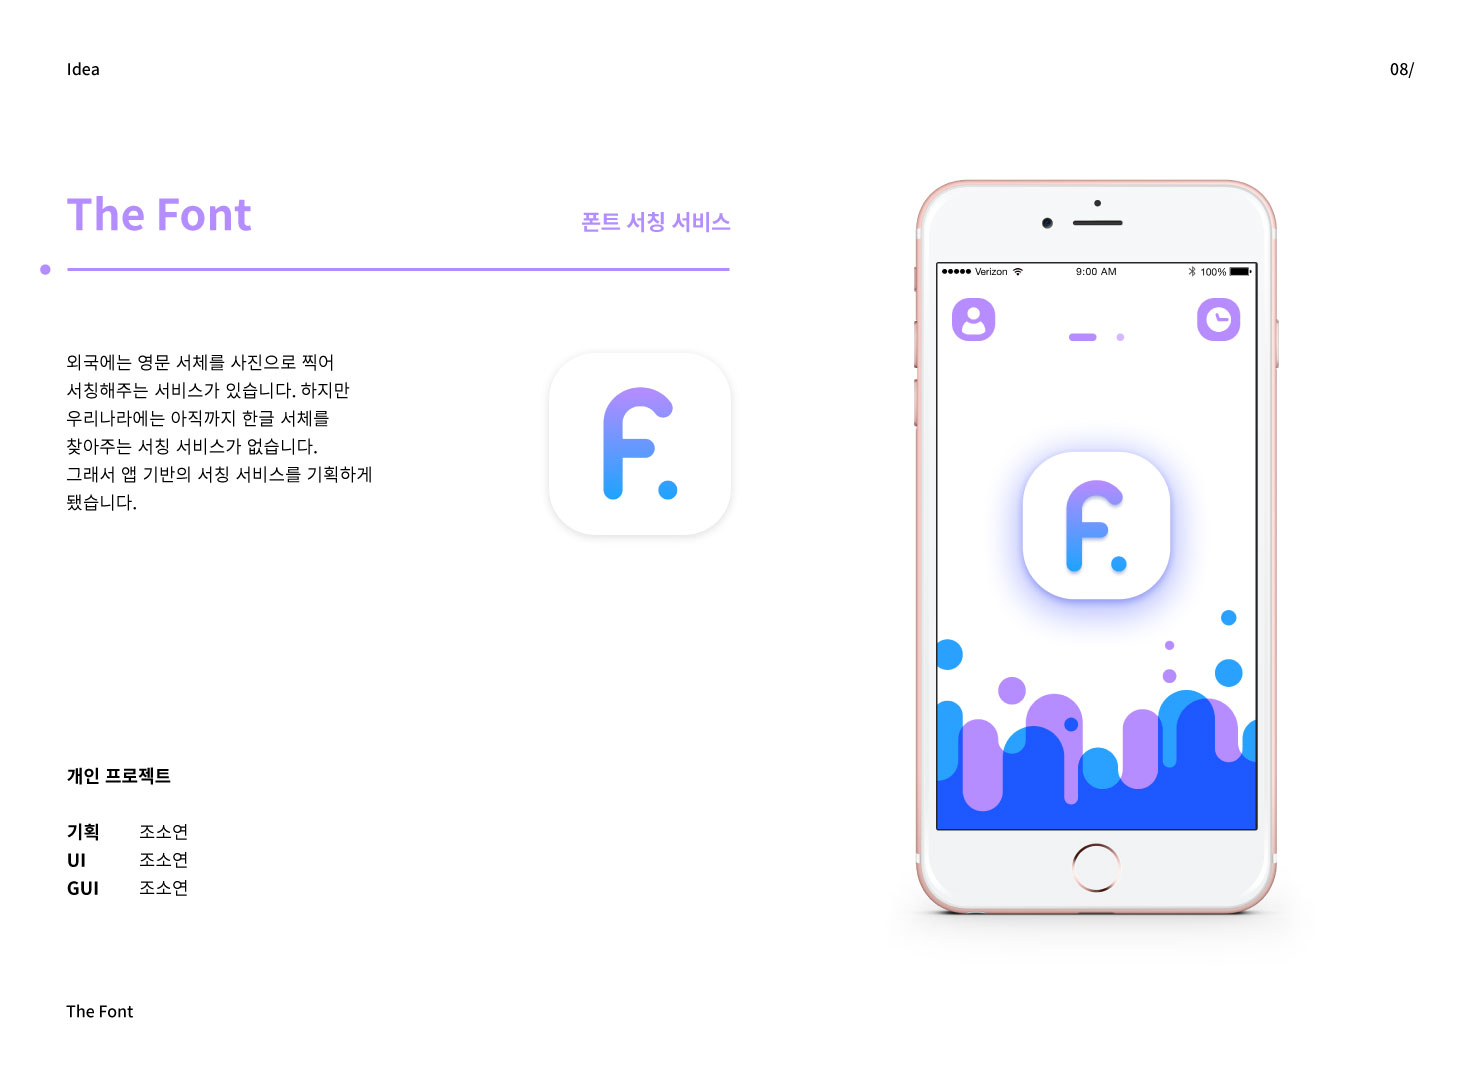
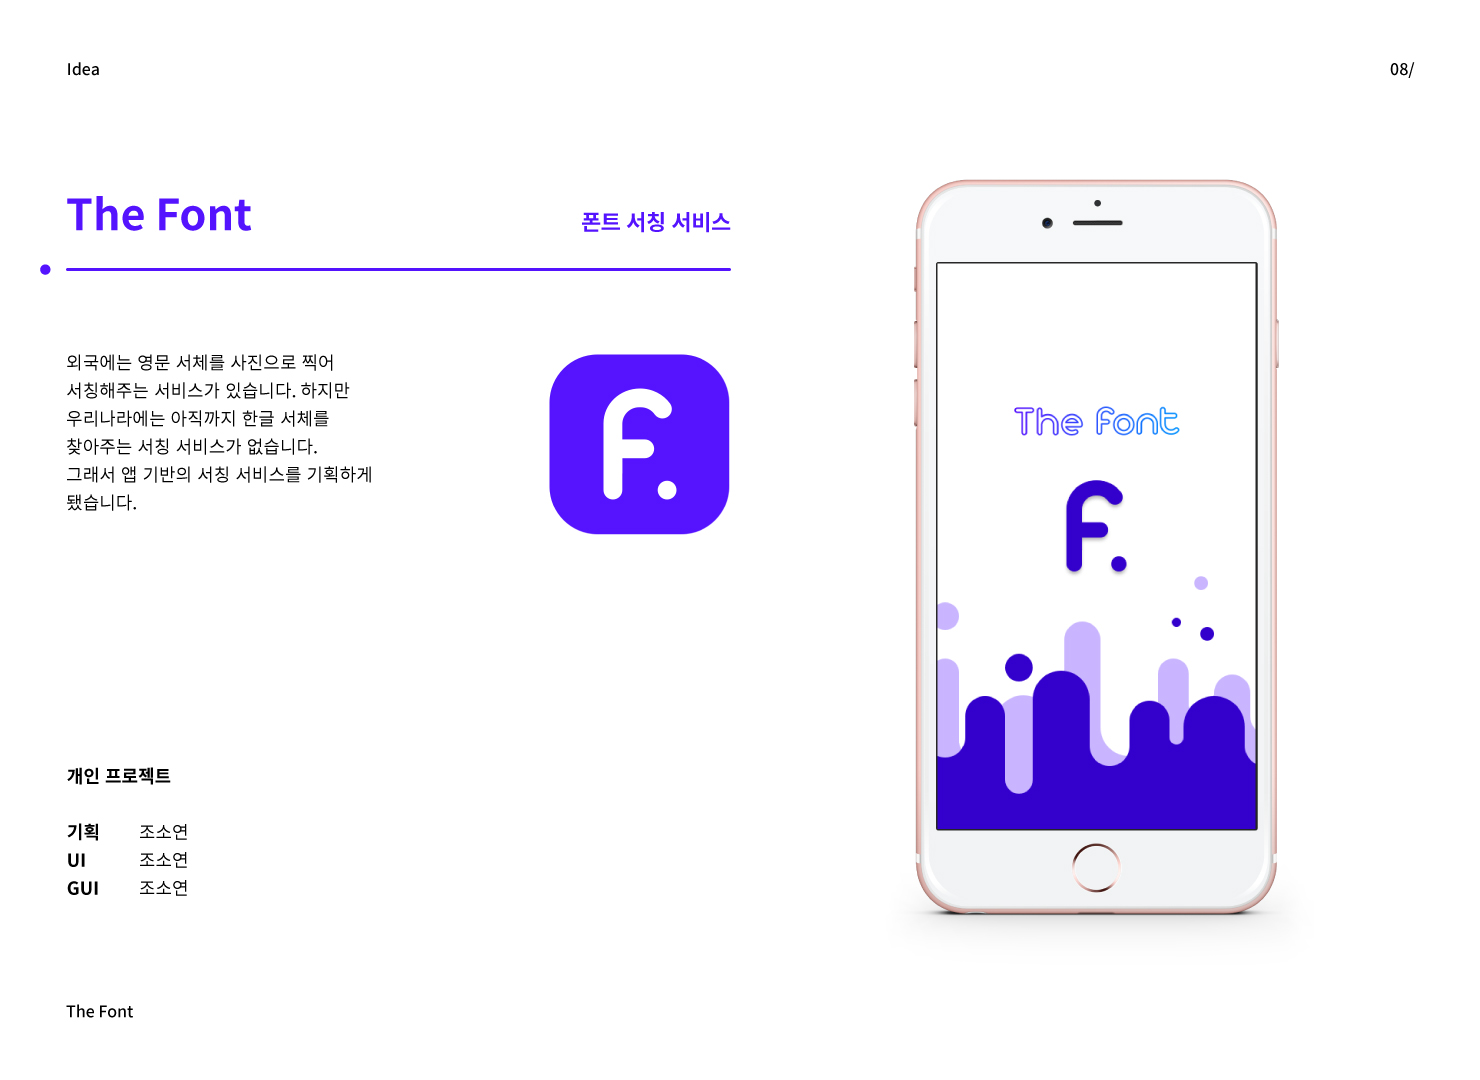
1.0.4 ver.
1. Redesigned The Font
2. Added gif

diff --git a/portfolio.html b/portfolio.html
@@ -27,6 +27,10 @@
       <a><img src="portfolio_007.jpg" alt="Portfolio"></a>
       <a><img src="portfolio_008.jpg" alt="Portfolio"></a>
       <a><img src="portfolio_009.jpg" alt="Portfolio"></a>
+      <br>
+      <br>
+      <a>Prototypes using <b>ProtoPie & After Effects</b></a>
+      <div id="gifBg"><a><img style="width:480px; padding-top: 70px;" src="TheFont_mobile.gif" alt="The Font"></a></div>
       <a><img src="portfolio_010.jpg" alt="Portfolio"></a>
       <a><img src="portfolio_011.jpg" alt="Portfolio"></a>
       <a><img src="portfolio_012.jpg" alt="Portfolio"></a>

diff --git a/style.css b/style.css
@@ -18,7 +18,7 @@ body{
   color: #343945;
 }
 #menu{
-  display: block;
+  display: inline-block;
   margin-top: 40px;
   font-size: 22px;
 }
@@ -37,6 +37,20 @@ body{
 #list li a{
   text-decoration: none;
   color: #343945;
+}
+#contents {
+  display: block;
+	width: 1000px;
+  margin-bottom: 6px;
+  margin-left: auto;
+  margin-right: auto;
+}
+#gifBg{
+  display: block;
+  height: 480px;
+  width: 1000px;
+  background-color: #3300CC;
+  margin-bottom: 20px;
 }
 #contents img{
   display: block;
